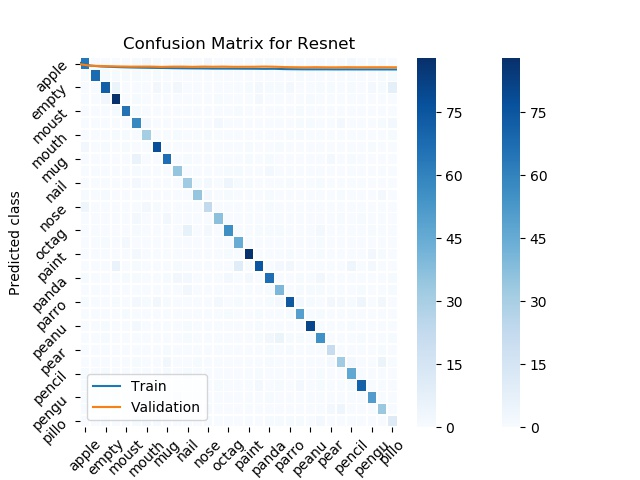
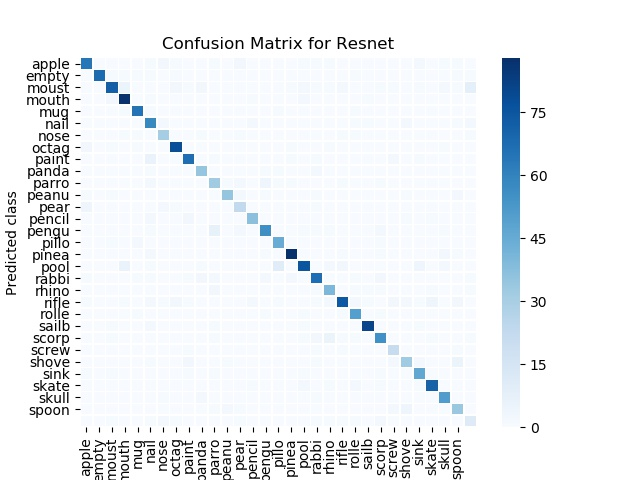
more figures

diff --git a/plot_stuff.py b/plot_stuff.py
@@ -28,9 +28,11 @@ from sklearn.metrics import confusion_matrix
 
 mat = confusion_matrix(performance['best_preds'], performance['best_reals'])
 label = ['apple', 'empty', 'moust', 'mouth', 'mug', 'nail', 'nose', 'octag', 'paint', 'panda', 'parro', 'peanu', 'pear', 'pencil', 'pengu', 'pillo', 'pinea', 'pool', 'rabbi', 'rhino', 'rifle', 'rolle', 'sailb', 'scorp', 'screw', 'shove', 'sink', 'skate', 'skull', 'spoon']
-plot = sns.heatmap(mat, annot=False, linewidths=0.5, cmap='Blues')
-plot.set_xticklabels(label, rotation=45)
-plot.set_yticklabels(label, rotation=45)
+plot = sns.heatmap(mat, annot=False, linewidths=0.5, cmap='Blues', xticklabels=label, yticklabels=label)
+#plot.set_xticks(np.arange(len(label)), minor=True)
+#plot.set_yticks(np.arange(len(label)), minor=True)
+#plot.set_xticklabels(label, rotation=45, minor=True)
+#plot.set_yticklabels(label, rotation=45, minor=True)
 plot.set_xlabel('Actual class')
 plot.set_ylabel('Predicted class')
 plot.set_title('Confusion Matrix for Resnet')
